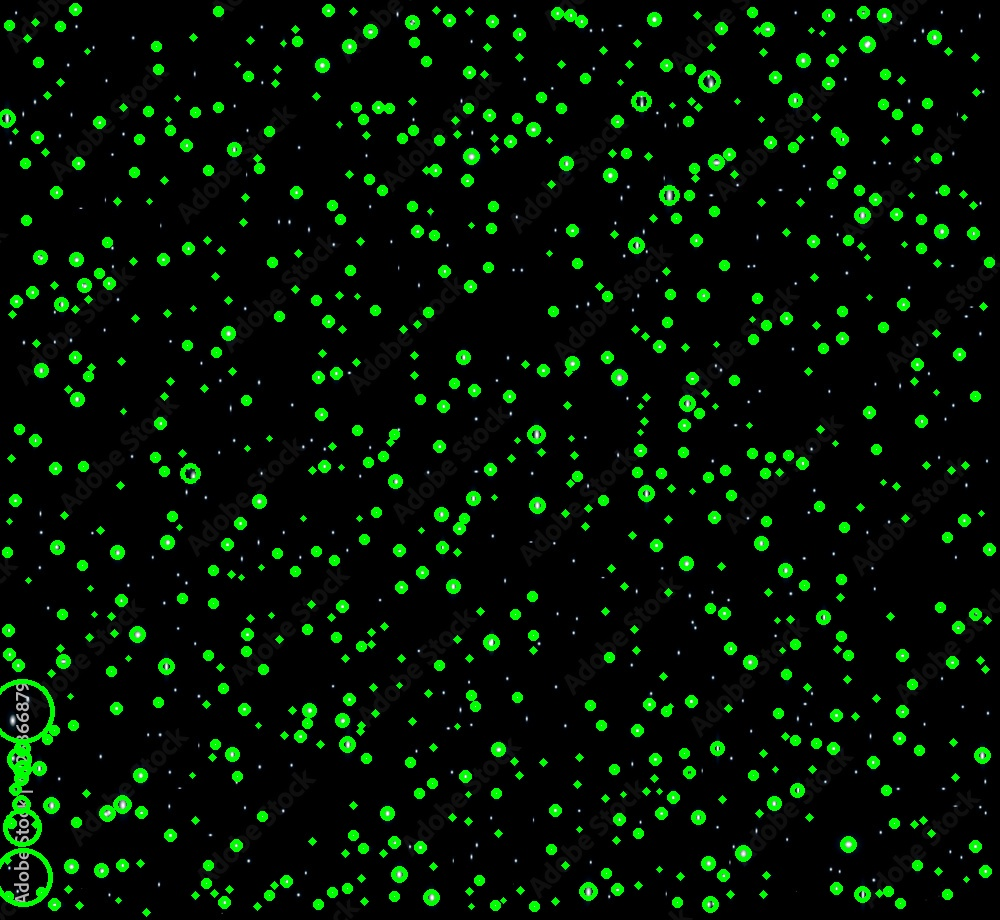
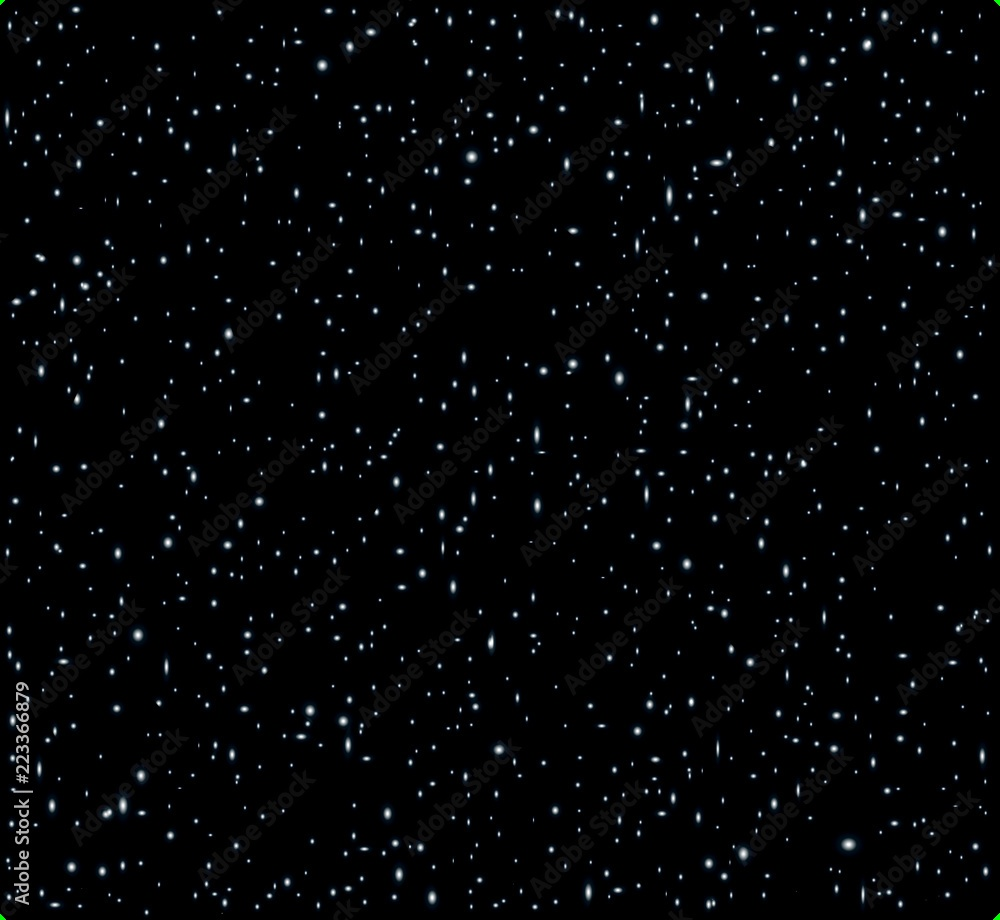
Outline clusters

diff --git a/flask/util.py b/flask/util.py
@@ -30,29 +30,12 @@ def classify(filename):
 	thresh = cv2.erode(thresh, None, iterations=0)
 	thresh = cv2.dilate(thresh, None, iterations=1)
 
-	# perform a connected component analysis on the thresholded
-	# image, then initialize a mask to store only the "large"
-	# components
-	labels = measure.label(thresh, background=0)
-	mask = np.zeros(thresh.shape, dtype="uint8")
-	# loop over the unique components
-	for label in np.unique(labels):
-		# if this is the background label, ignore it
-		if label == 0:
-			continue
-		# otherwise, construct the label mask and count the
-		# number of pixels 
-		labelMask = np.zeros(thresh.shape, dtype="uint8")
-		labelMask[labels == label] = 255
-		numPixels = cv2.countNonZero(labelMask)
-		# if the number of pixels in the component is sufficiently
-		# large, then add it to our mask of "large blobs"
-		if numPixels > 1:
-			mask = cv2.add(mask, labelMask)
-
+	star_mask = get_star_mask(thresh)
+	cluster_mask = get_cluster_mask(original_image)
+	
 	# find the contours in the mask, then sort them from left to
 	# right
-	cnts = cv2.findContours(mask.copy(), cv2.RETR_EXTERNAL, cv2.CHAIN_APPROX_SIMPLE)
+	cnts = cv2.findContours(star_mask.copy(), cv2.RETR_EXTERNAL, cv2.CHAIN_APPROX_SIMPLE)
 	cnts = imutils.grab_contours(cnts)
 	cnts = contours.sort_contours(cnts)[0]
 	# loop over the contours
@@ -62,6 +45,13 @@ def classify(filename):
 		((cX, cY), radius) = cv2.minEnclosingCircle(c)
 		cv2.circle(original_image, (int(cX), int(cY)), int(radius), (0, 255, 0), 3)
 		#cv2.putText(image, "#{}".format(i + 1), (x, y - 15), cv2.FONT_HERSHEY_SIMPLEX, 0.45, (0, 0, 255), 2)
+
+	# trace the clusters
+	cnts = cv2.findContours(cluster_mask.copy(), cv2.RETR_EXTERNAL, cv2.CHAIN_APPROX_SIMPLE)
+	cnts = imutils.grab_contours(cnts)
+	cnts = contours.sort_contours(cnts)[0]
+	for c in cnts:
+		cv2.drawContours(original_image, [c], -1, (255, 255, 0), thickness=10)
 
 	# show the output image
 	cv2.imwrite(os.path.join('./flaskr/static/', filename), original_image)
@@ -140,3 +130,54 @@ def sharpen(img_in, kernal_size):
 	unsharp_mask = cv2.addWeighted(img_in, 1.5, blurred, -0.5, 0)
 
 	return unsharp_mask
+
+def get_star_mask(thresh):
+	# perform a connected component analysis on the thresholded
+	# image, then initialize a mask to store only the "large"
+	# components
+	labels = measure.label(thresh, background=0)
+	mask = np.zeros(thresh.shape, dtype="uint8")
+	
+	# loop over the unique components
+	for label in np.unique(labels):
+		# if this is the background label, ignore it
+		if label == 0:
+			continue
+		# otherwise, construct the label mask and count the
+		# number of pixels 
+		labelMask = np.zeros(thresh.shape, dtype="uint8")
+		labelMask[labels == label] = 255
+		numPixels = cv2.countNonZero(labelMask)
+		# if the number of pixels in the component is sufficiently
+		# large, then add it to our mask of "large blobs"
+		if numPixels > 1 and numPixels < 1000:
+			mask = cv2.add(mask, labelMask)
+
+	return mask
+
+# CREATE MASK FOR BIG CLUSTERS
+def get_cluster_mask(img):
+	lower_val = np.array([0,0,0])
+	upper_val = np.array([40,40,100])
+
+	mask = cv2.inRange(img, lower_val, upper_val)
+
+	contours, _ = cv2.findContours(mask, cv2.RETR_TREE,cv2.CHAIN_APPROX_SIMPLE)
+	selected_contours = []
+
+	for contour in contours:
+		area = cv2.contourArea(contour)
+    
+		if area > 1000: #this is the val we can change
+			selected_contours.append(contour)
+			blank_image = np.zeros(mask.shape, np.uint8)
+			cv2.fillPoly(blank_image, pts=selected_contours, color=(255, 255, 255))
+
+	out_img = cv2.bitwise_not(blank_image)
+	
+	return out_img
+
+
+
+
+
